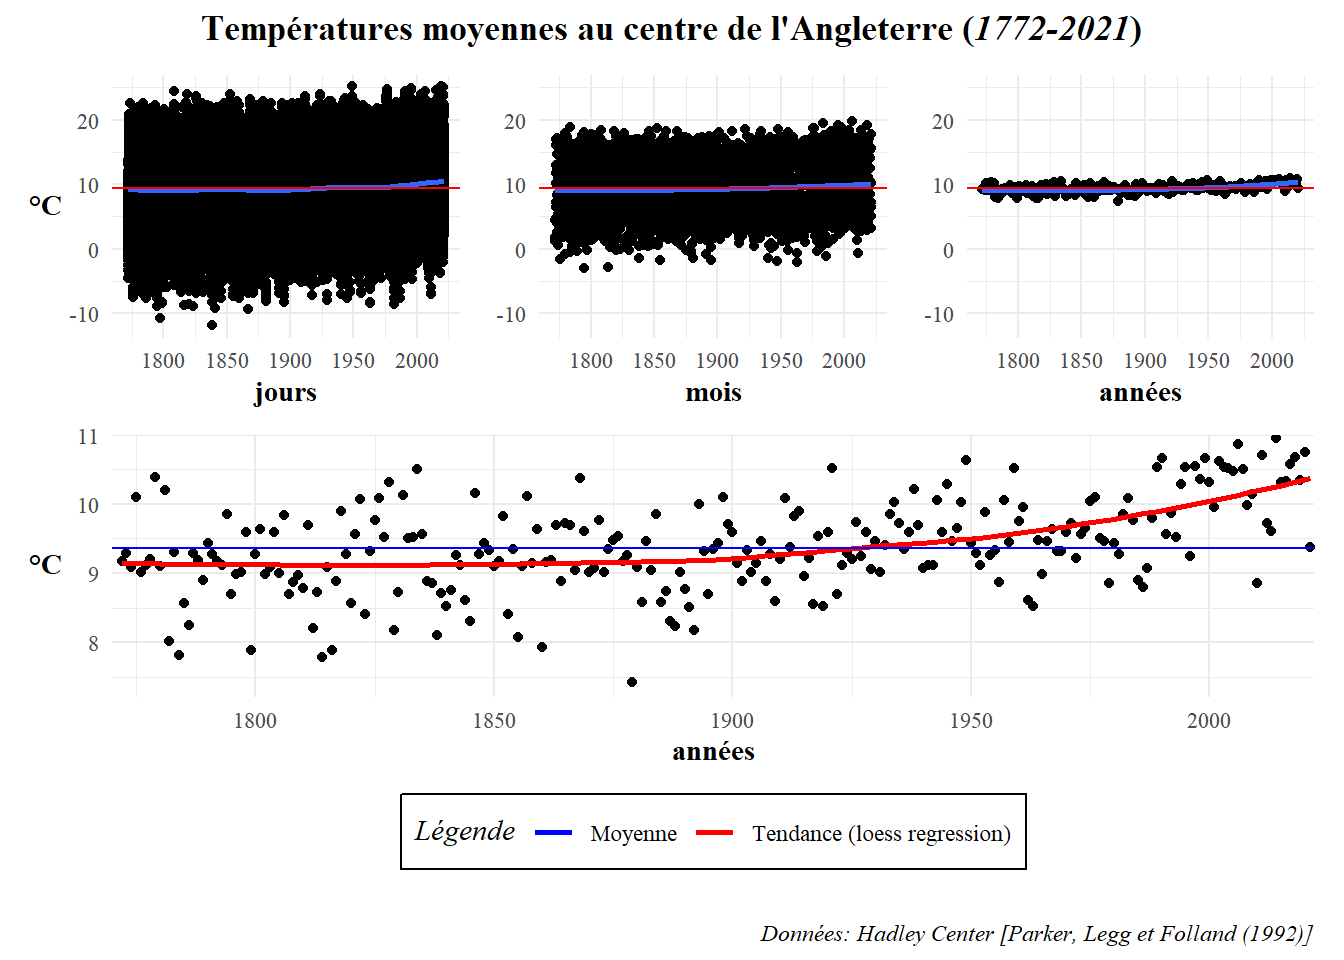
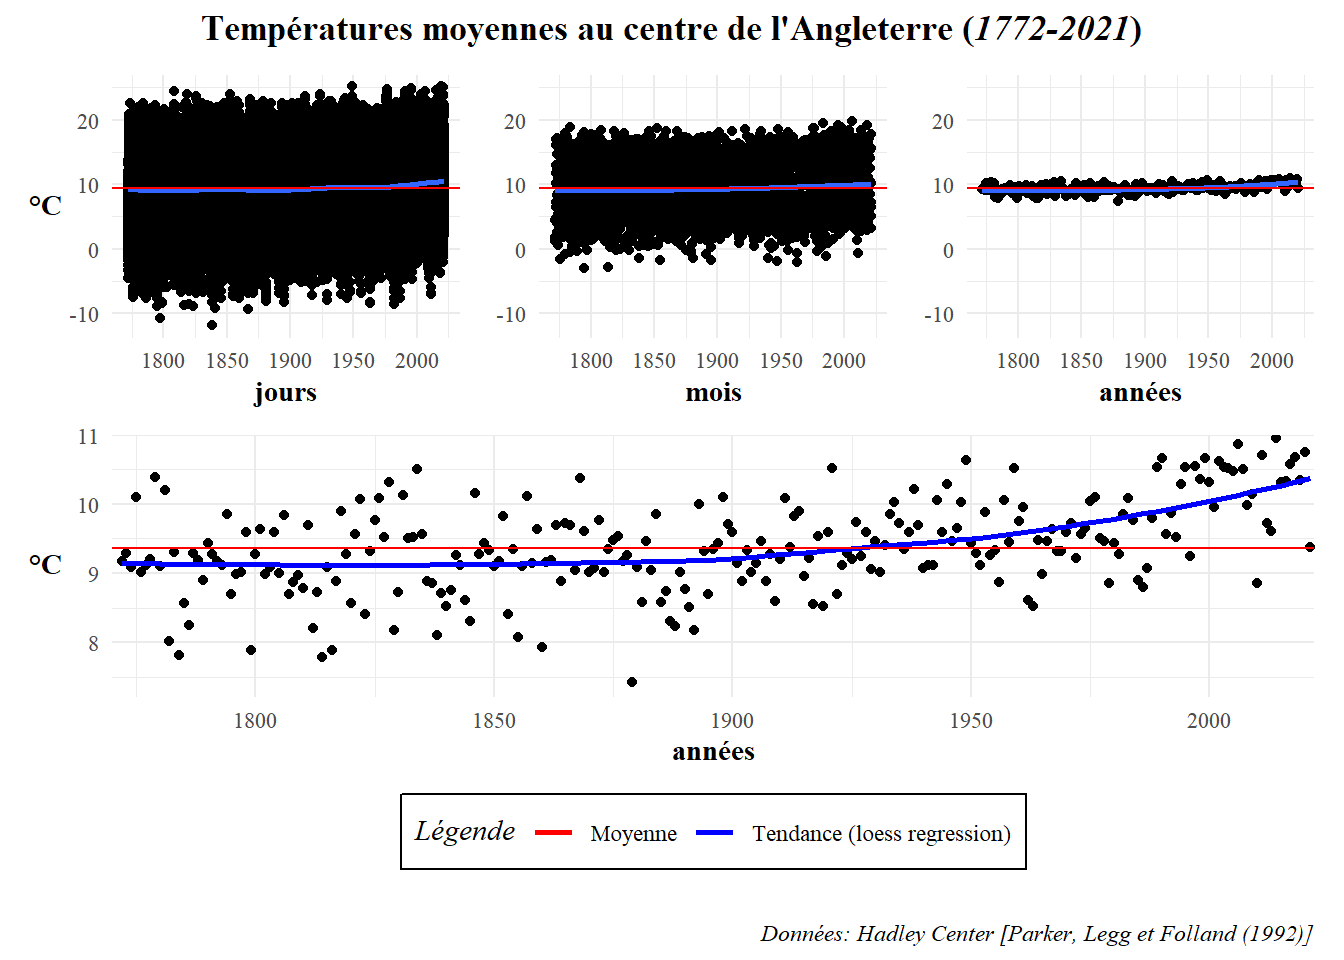
commit 3

diff --git a/content/post/2021-08-23-premiers-pas-sur-ggplot2/index.html b/content/post/2021-08-23-premiers-pas-sur-ggplot2/index.html
@@ -220,7 +220,7 @@ g_an_f&lt;-ggplot(d_y,aes(x=dd,y=deg_C))+geom_point()+
   geom_smooth(se=FALSE,aes(colour=&quot;Tendance (loess regression)&quot;))+
   geom_hline(aes(yintercept=mean(d_m$deg_C),colour=&quot;Moyenne&quot;))+
   labs(x=&#39;**années**&#39;,y=&#39;**°C**&#39;)+
-  scale_colour_manual(name=&quot;*Légende*&quot;, values=c(&quot;blue&quot;, &quot;red&quot;))+
+  scale_colour_manual(name=&quot;*Légende*&quot;, values=c(&quot;red&quot;, &quot;blue&quot;))+
   coord_cartesian(xlim=c(1770,2022),ylim=c(7.2,11),expand = FALSE)+
   theme_minimal()
 (g_j+g_m+g_an)/g_an_f+
